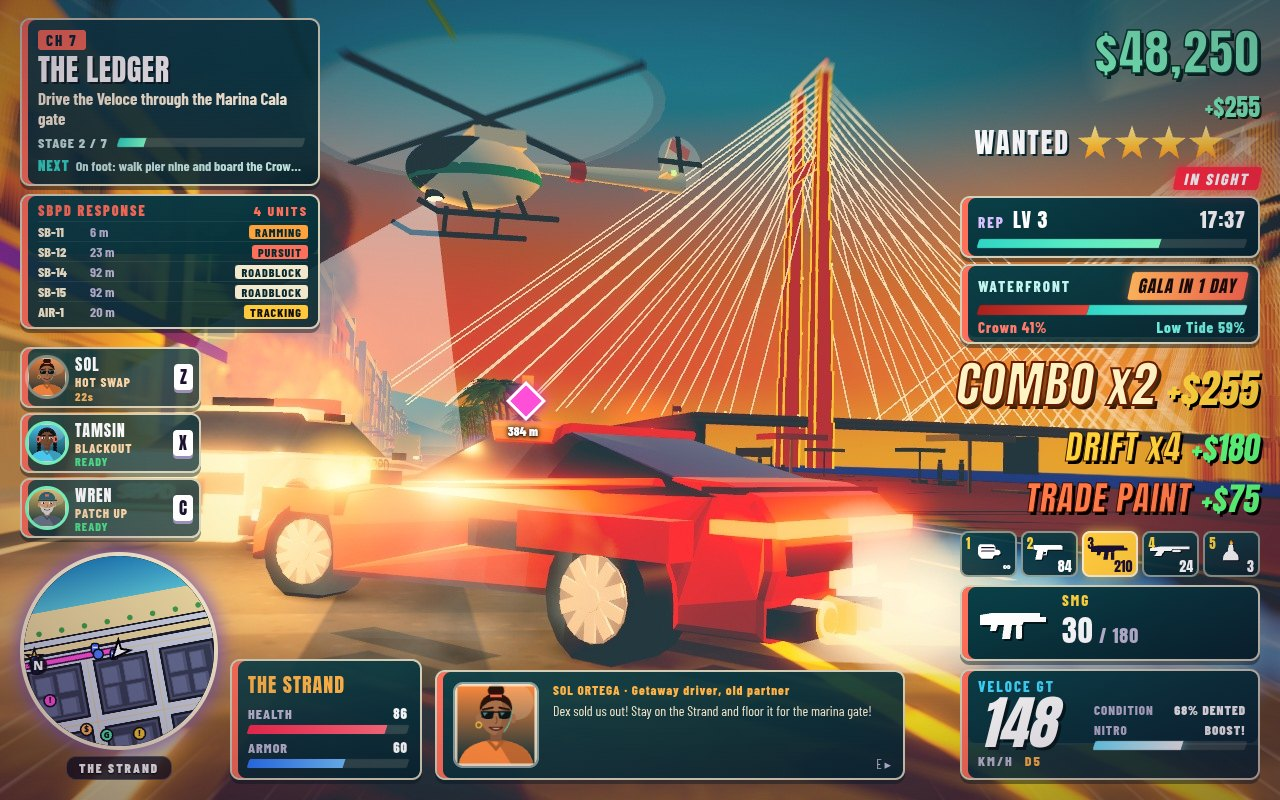
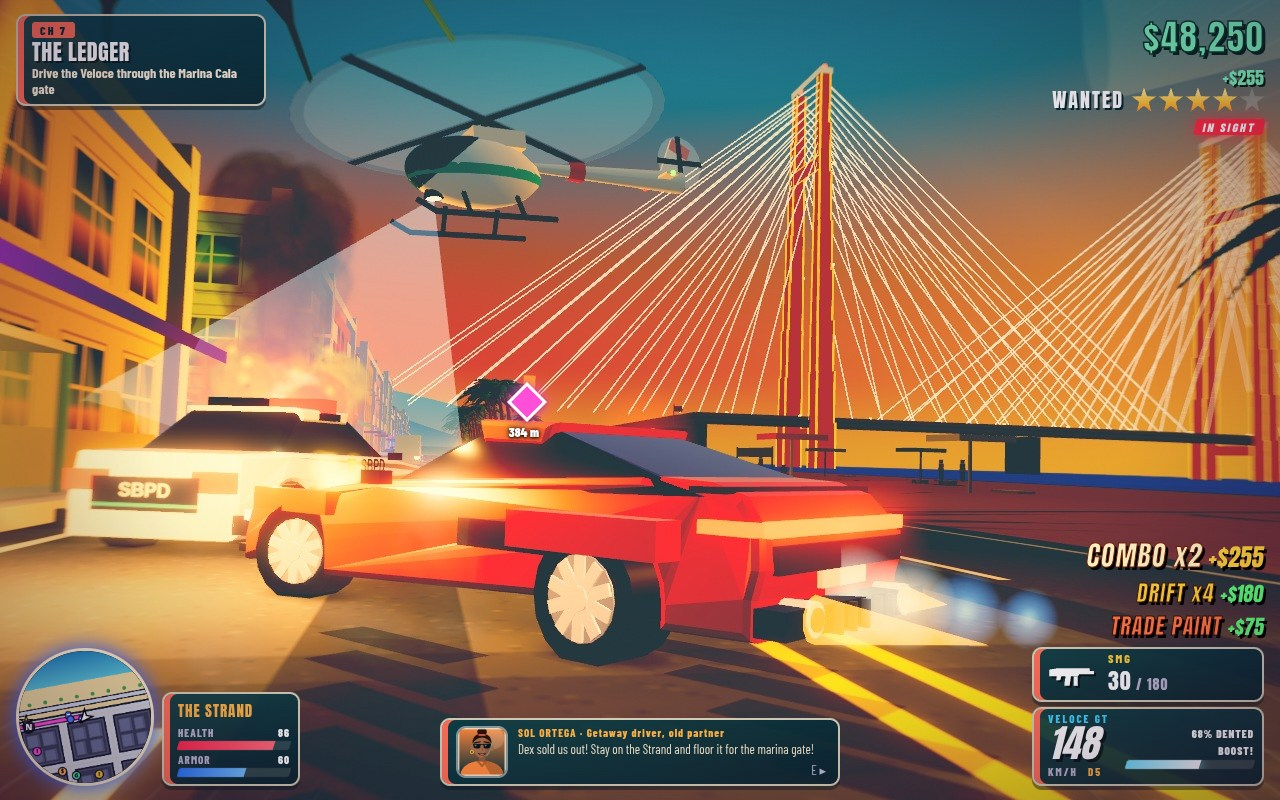
Compact corner HUD (V toggles full cards / compact corners); cover restaged for clarity: compact HUD, lower bloom, crisper edge blur in staged shots, small kerb fire, thin tyre wisps, short nitro flame

diff --git a/game/src/shots/screenshotScenes.js b/game/src/shots/screenshotScenes.js
@@ -72,8 +72,8 @@ function chase(api) {
   for (const c of G.cars) { c.mesh.position.set(c.x, 0, c.z); c.mesh.rotation.y = c.heading; for (const w of c.mesh.userData.fw || []) w.rotation.y = c.steerA * 0.9; }
   // the third cruiser lost it on the kerb: wrecked, nose up on the palm planter, and it just went up (the real wreck + explosion)
   burner.mesh.rotation.z = 0.22; burner.mesh.position.y = 0.35; wreck(burner);
-  for (let i = 0; i < 9; i++) { G.time += 1 / 60; updateEffects(1 / 60); if (i % 3 === 0) fire(burner.x, 1.2, burner.z); }
-  for (let i = 0; i < 10; i++) fire(burner.x, 1.4 + i * 0.25, burner.z);
+  for (let i = 0; i < 9; i++) { G.time += 1 / 60; updateEffects(1 / 60); if (i % 4 === 0) fire(burner.x, 1.2, burner.z); }
+  for (let i = 0; i < 3; i++) fire(burner.x, 1.3 + i * 0.3, burner.z); // a small kerb fire: heat beside the chase, not a second subject
   // AIR-1 low over the Strand in near profile, nose to the left and a little toward the camera, searchlight on the road ahead of the car
   { const [hx, hz] = T(C.heli[0], C.heli[1]); G.heli = createHeli(hx, hz); G.heli.y = C.heli[2]; G.heli.mesh.position.set(hx, C.heli[2], hz);
     G.heli.mesh.rotation.order = 'YXZ'; G.heli.mesh.rotation.set(0.1, -1.22, 0.08); G.heli.rotor.rotation.y = 0.5; const [sx, sz] = T(C.spot[0], C.spot[1]); placeCone(G.heli, sx, sz); } G.shotLock = true;
@@ -82,15 +82,14 @@ function chase(api) {
   // the drift so far: twin skid marks behind the rear wheels; thick tyre smoke rolling back off them
   const fx = Math.sin(car.heading), fz = Math.cos(car.heading), rx = car.x - fx * 1.45, rz = car.z - fz * 1.45;
   for (let k = 0; k < 50; k++) { const q = k / 50; for (const sg of [-1, 1]) { const [sx, sz] = T(-1.6 - q * 34 - Math.sin(C.drift * (1 - q)) * sg * 0.4, q * q * 2.5 + sg * 0.85); skidMark(sx, sz, H(C.drift * (1 - q))); } }
-  for (let k = 0; k < 6; k++) { const b = k * 0.55; for (const sg of [-1, 1]) particle({ x: rx - b * 0.9 + sg * fz * 0.9, y: 0.4 + k * 0.07, z: rz + sg * -fx * 0.9 + b * (0.35 + sg * 0.15), life: 1.5, size: 1.1 + k * 0.3, color: 0xfff2e6, hdr: 1.1, op: 0.26 - k * 0.03, tex: 'puff' }); } // kept short of the lens
+  for (let k = 2; k < 6; k++) { const b = k * 0.55; for (const sg of [-1, 1]) particle({ x: rx - b * 0.9 + sg * fz * 0.9, y: 0.3 + k * 0.05, z: rz + sg * -fx * 0.9 + b * (0.35 + sg * 0.15), life: 1.5, size: 0.8 + k * 0.2, color: 0xfff2e6, hdr: 1.0, op: 0.16 - k * 0.02, tex: 'puff' }); } // thin wisps low behind the tyres, never over the wheels
   // nitro: blue-white exhaust flame
-  for (let k = 0; k < 7; k++) particle({ x: car.x - fx * (2.45 + k * 0.32), y: 0.38, z: car.z - fz * (2.45 + k * 0.32), life: 0.3, size: 1.05 - k * 0.1, color: k < 2 ? 0xe8f6ff : 0x7fc8ff, add: true, hdr: 2.4 });
+  for (let k = 0; k < 4; k++) particle({ x: car.x - fx * (2.45 + k * 0.3), y: 0.38, z: car.z - fz * (2.45 + k * 0.3), life: 0.3, size: 0.6 - k * 0.1, color: k < 2 ? 0xe8f6ff : 0x7fc8ff, add: true, hdr: 1.8 });
   // the sideswipe: sparks where the cruiser's push bar grinds the left front wing (stepped a few frames so they streak out)
-  { const hx = (car.x + fx * 1.4 + rammer.x) / 2, hz = (car.z + fz * 1.4 + rammer.z) / 2; sparks(hx, 0.7, hz, 40); for (let i = 0; i < 3; i++) { G.time += 1 / 60; updateEffects(1 / 60); sparks(hx, 0.7, hz, 18); }
-    particle({ x: hx, y: 0.75, z: hz, life: 1, size: 1.2, color: 0xffc070, add: true, hdr: 1.6 }); }
+  { const hx = (car.x + fx * 1.4 + rammer.x) / 2, hz = (car.z + fz * 1.4 + rammer.z) / 2; sparks(hx, 0.7, hz, 24); for (let i = 0; i < 3; i++) { G.time += 1 / 60; updateEffects(1 / 60); sparks(hx, 0.7, hz, 10); } }
   G.money = 47995; api.updateHud(0.016); popup('DRIFT x4', 180, 'drift'); popup('TRADE PAINT', 75, 'ram');
   say({ who: 'sol', text: 'Dex sold us out! Stay on the Strand and floor it for the marina gate!' }); typed();
-  G.exposure = 1.05; if (G.post) Object.assign(G.post.params, { bloom: 0.32, threshold: 1.3, vignette: 0.38 }); // crisp: bloom only on the hot spots
+  G.exposure = 1.08; G.settings.hudCompact = true; if (G.post) Object.assign(G.post.params, { bloom: 0.18, threshold: 1.6, vignette: 0.22 }); // crisp: bloom only on the hottest spots; compact corner HUD (V)
   const [px, pz] = T(C.cam[0], C.cam[1]), [lx, lz] = T(C.look[0], C.look[1]); G.shotCam = { pos: [px, C.cam[2], pz], look: [lx, C.look[2], lz], fov: C.fov, roll: C.roll };
   const rim = new THREE.PointLight(0xffb070, 160, 12, 1.4); { const [x, z] = T(0.5, -2.6); rim.position.set(x, 2.4, z); } G.scene.add(rim);
   // warm bounce off the sunlit asphalt onto the tail and right flank, so the paint reads glossy coral instead of backlit dark

diff --git a/game/styles/hud.css b/game/styles/hud.css
@@ -158,3 +158,20 @@
 #crewStack { gap: 5px; }
 .crewc { width: 168px; gap: 6px; padding: 3px 6px 3px 3px; background: linear-gradient(165deg, rgba(10, 64, 72, 0.8), rgba(5, 36, 46, 0.72)); }
 .crewc .ring, .crewc canvas { width: 38px; height: 38px; } .crewc .cinfo b { font-size: 16px; } .crewc kbd { font-size: 17px; padding: 0 6px; }
+/* Compact HUD (V): only the four corners. Mission card, money + stars, minimap + vitals, weapon + speed; the police list,
+   rep, turf, radio, crew stack and weapon bar step aside so the middle of the screen is all world. */
+#hud.compact #policeCard, #hud.compact #respectCard, #hud.compact #turfCard, #hud.compact #radioCard, #hud.compact #crewStack, #hud.compact #wbar, #hud.compact #mNext, #hud.compact .mstage { display: none; }
+#hud.compact #leftCol { width: 250px; left: 16px; top: 14px; }
+#hud.compact #missionCard { padding: 6px 10px 7px 14px; } #hud.compact .chap { font-size: 12px; } #hud.compact .mtitle { font-size: 22px; margin: 3px 0 2px; } #hud.compact #mObj { font-size: 14px; margin-bottom: 0; }
+#hud.compact #topRight { right: 16px; top: 10px; width: 220px; gap: 2px; }
+#hud.compact #money { font-size: 36px; } #hud.compact #moneyDelta { font-size: 18px; height: 18px; }
+#hud.compact .wlab { font-size: 20px; } #hud.compact #stars i { width: 24px; height: 24px; } #hud.compact #losTag { font-size: 12px; padding: 1px 8px; }
+#hud.compact #bottomLeft { left: 16px; bottom: 14px; gap: 8px; }
+#hud.compact #mapWrap { width: 132px; height: 132px; border-width: 3px; } #hud.compact #minimap { width: 132px; height: 132px; } #hud.compact #mmDistrict { display: none; }
+#hud.compact #vitals { width: 112px; padding: 5px 8px 7px 14px; } #hud.compact #district { font-size: 15px; } #hud.compact .vrow { font-size: 11px; margin: 3px 0 2px; }
+#hud.compact #rightCol { right: 16px; bottom: 14px; width: 210px; gap: 5px; }
+#hud.compact #weaponCard { padding: 3px 8px 3px 14px; } #hud.compact #wIcon { width: 50px; height: 28px; } #hud.compact #wAmmo { font-size: 22px; } #hud.compact #wAmmo small { font-size: 14px; } #hud.compact #wName { font-size: 12px; }
+#hud.compact #speedo { padding: 4px 8px 6px 14px; gap: 8px; } #hud.compact .sv { min-width: 70px; } #hud.compact .sv b { font-size: 38px; } #hud.compact #carName, #hud.compact .sv small, #hud.compact .vlab { font-size: 11px; }
+#hud.compact .popup b { font-size: 22px; margin-right: 6px; } #hud.compact .popup span { font-size: 20px; } #hud.compact .popup.combo b { font-size: 28px; -webkit-text-stroke-width: 1px; text-shadow: 3px 3px 0 #000; } #hud.compact .popup.combo span { font-size: 24px; }
+#hud.compact #dialog { width: 400px; left: 50%; bottom: 14px; gap: 10px; padding: 6px 10px 6px 14px; } #hud.compact #portrait { width: 48px; height: 48px; } #hud.compact #dName { font-size: 11px; margin-bottom: 2px; } #hud.compact #dText { font-size: 13px; line-height: 1.25; }
+#hud.compact #rightCol { width: 232px; } #hud.compact .vlab span { display: none; } #hud.compact .vlab { justify-content: flex-end; }

diff --git a/game/src/render/frameRenderer.js b/game/src/render/frameRenderer.js
@@ -15,13 +15,13 @@ function titleCamera() {
 function speedBlur() { const c = G.mode === 'play' ? G.p.car : null; if (!c) return 0; return Math.min(1, Math.max(0, (Math.abs(c.speed) - 24) / 26) * 0.75 + (c.boosting ? 0.35 : 0)); }
 function draw() {
   if (postOn()) {
-    try { const sp = G.p.car ? Math.abs(G.p.car.speed) : 0; G.post.params.fringe = G.mode === 'play' && !G.shotCrisp ? Math.max(0, Math.min(1, (sp - 22) / 28)) : 0; G.post.params.radial = speedBlur(); G.post.params.exposure = G.exposure || 1.25; G.post.params.magic = G.magic || 0; G.post.params.grade = currentGrade(); G.post.render(G.scene, G.camera, G.time); return; }
+    try { const sp = G.p.car ? Math.abs(G.p.car.speed) : 0; G.post.params.fringe = G.mode === 'play' && !G.shotCrisp ? Math.max(0, Math.min(1, (sp - 22) / 28)) : 0; G.post.params.radial = speedBlur() * (G.shotCrisp ? 0.3 : 1); G.post.params.exposure = G.exposure || 1.25; G.post.params.magic = G.magic || 0; G.post.params.grade = currentGrade(); G.post.render(G.scene, G.camera, G.time); return; }
     catch (e) { console.warn('post-processing disabled: ' + e.message); G.post = null; }
   }
   G.renderer.setRenderTarget(null); G.renderer.render(G.scene, G.camera);
 }
 function screenFx() {
-  const sp = G.mode === 'play' && G.p.car ? Math.abs(G.p.car.speed) : 0; speedEl.style.opacity = String(Math.max(0, Math.min(0.85, (sp - 18) / 30) * (G.shotCrisp ? 0.6 : 1))); // speed lines at the frame edges
+  const sp = G.mode === 'play' && G.p.car ? Math.abs(G.p.car.speed) : 0; speedEl.style.opacity = String(Math.max(0, Math.min(0.85, (sp - 18) / 30) * (G.shotCrisp ? 0.25 : 1))); // speed lines at the frame edges
   const gl = G.sunScreen; glareEl.style.opacity = gl && G.mode === 'play' ? String(gl.a * (postOn() ? 0.2 : 1) * (G.shotCrisp ? 0.4 : 1)) : '0'; if (gl) glareEl.firstElementChild.style.transform = `translate(${gl.x}px, ${gl.y}px)`;
 }
 // snap: jump the camera straight to its target (staged shots); dt drives camera smoothing.

diff --git a/game/src/ui/menus.js b/game/src/ui/menus.js
@@ -13,7 +13,7 @@ import { fillGarage } from '../shop/garageShop.js';
 import { setQuality } from '../render/qualityGovernor.js';
 
 const $ = (id) => document.getElementById(id); const ALL = ['title', 'pause', 'controls', 'settings', 'shop', 'cityMap', 'dead', 'crew', 'garage'];
-const KEYS = [['W A S D', 'Move / drive'], ['Shift', 'Sprint / nitro in a car'], ['Mouse', 'Look and aim'], ['L-Click', 'Shoot / punch'], ['R-Click', 'Aim'], ['1 – 5', 'Fists, pistol, SMG, shotgun, molotov'], ['Tab (hold)', 'Weapon wheel'], ['Z / X / C', 'Crew: Hot Swap, Blackout, Patch Up'], ['J', 'Crew & Chapters'], ['F', 'Enter or steal nearest car / exit'], ['E', 'Interact, talk, advance dialogue'], ['Space', 'Handbrake (drift)'], ['H', 'Horn'], ['R', 'Radio station'], ['M', 'City map'], ['Esc', 'Pause'], ['Walk into gold markers', 'Start missions']];
+const KEYS = [['W A S D', 'Move / drive'], ['Shift', 'Sprint / nitro in a car'], ['Mouse', 'Look and aim'], ['L-Click', 'Shoot / punch'], ['R-Click', 'Aim'], ['1 – 5', 'Fists, pistol, SMG, shotgun, molotov'], ['Tab (hold)', 'Weapon wheel'], ['Z / X / C', 'Crew: Hot Swap, Blackout, Patch Up'], ['J', 'Crew & Chapters'], ['F', 'Enter or steal nearest car / exit'], ['E', 'Interact, talk, advance dialogue'], ['Space', 'Handbrake (drift)'], ['H', 'Horn'], ['R', 'Radio station'], ['V', 'HUD: full cards / compact corners'], ['M', 'City map'], ['Esc', 'Pause'], ['Walk into gold markers', 'Start missions']];
 export function initMenus(handlers) {
   $('keysList').innerHTML = KEYS.map(([k, t]) => `<div><b>${k}</b>${t}</div>`).join('');
   document.querySelectorAll('[data-act]').forEach((b) => b.addEventListener('click', () => { sfx.click(); handlers[b.dataset.act]?.(); }));

diff --git a/game/src/core/gameFlow.js b/game/src/core/gameFlow.js
@@ -77,6 +77,7 @@ export function handleGlobalKeys() {
   if (pressed('KeyM') && G.mode === 'play') { G.mode = 'pause'; showScreen('cityMap'); releaseLock(); } else if (pressed('KeyM') && G.mode === 'pause' && !hidden('cityMap')) pause(false);
   if (pressed('KeyJ') && G.mode === 'play') { G.mode = 'pause'; showScreen('crew'); releaseLock(); } else if (pressed('KeyJ') && G.mode === 'pause' && !hidden('crew')) pause(false);
   if (pressed('KeyR') && G.mode === 'play') { cycleRadio(); sfx.click(); }
+  if (pressed('KeyV') && G.mode === 'play') { G.settings.hudCompact = !G.settings.hudCompact; sfx.click(); } // HUD layout: full cards / compact corners
   if (G.mode === 'play' && !input.locked && input.leftPressed && hidden('dialog')) requestLock();
-  for (const k of ['Escape', 'KeyM', 'KeyR', 'KeyJ']) input.edge.delete(k); // consumed here; other edges wait for the next simulation step
+  for (const k of ['Escape', 'KeyM', 'KeyR', 'KeyJ', 'KeyV']) input.edge.delete(k); // consumed here; other edges wait for the next simulation step
 }

diff --git a/game/src/ui/hud.js b/game/src/ui/hud.js
@@ -39,6 +39,7 @@ const show = (id, on) => $(id).classList.toggle('hidden', !on);
 const fmt = (t) => `${Math.floor(t / 60)}:${String(Math.floor(t % 60)).padStart(2, '0')}`;
 export function updateHud(dt) {
   const p = G.p, M = G.mission, w = G.wanted;
+  $('hud').classList.toggle('compact', !!G.settings.hudCompact); // V: compact corners layout
   show('missionCard', !!M);
   if (M) { set('mChap', M.def.side ? 'SIDE JOB' : `CH ${M.def.chapter}`); set('mTitle', M.def.title); set('mObj', M.text); set('mStage', `STAGE ${Math.max(1, M.idx + 1)} / ${M.total}`); set('mTimer', M.timer > 0 ? fmt(M.timer) : ''); const nx = M.def.stages[M.idx + 1]; const nh = `<b>NEXT</b>${nx ? nx.text : `Payout $${M.def.reward.money.toLocaleString('en-US')} · +${M.def.reward.xp} rep`}`; if (cache.nh !== nh) { cache.nh = nh; $('mNext').innerHTML = nh; } $('mBar').style.width = `${Math.max(6, (M.idx / M.total) * 100)}%`; }
   polT -= dt; show('policeCard', w.stars > 0);
